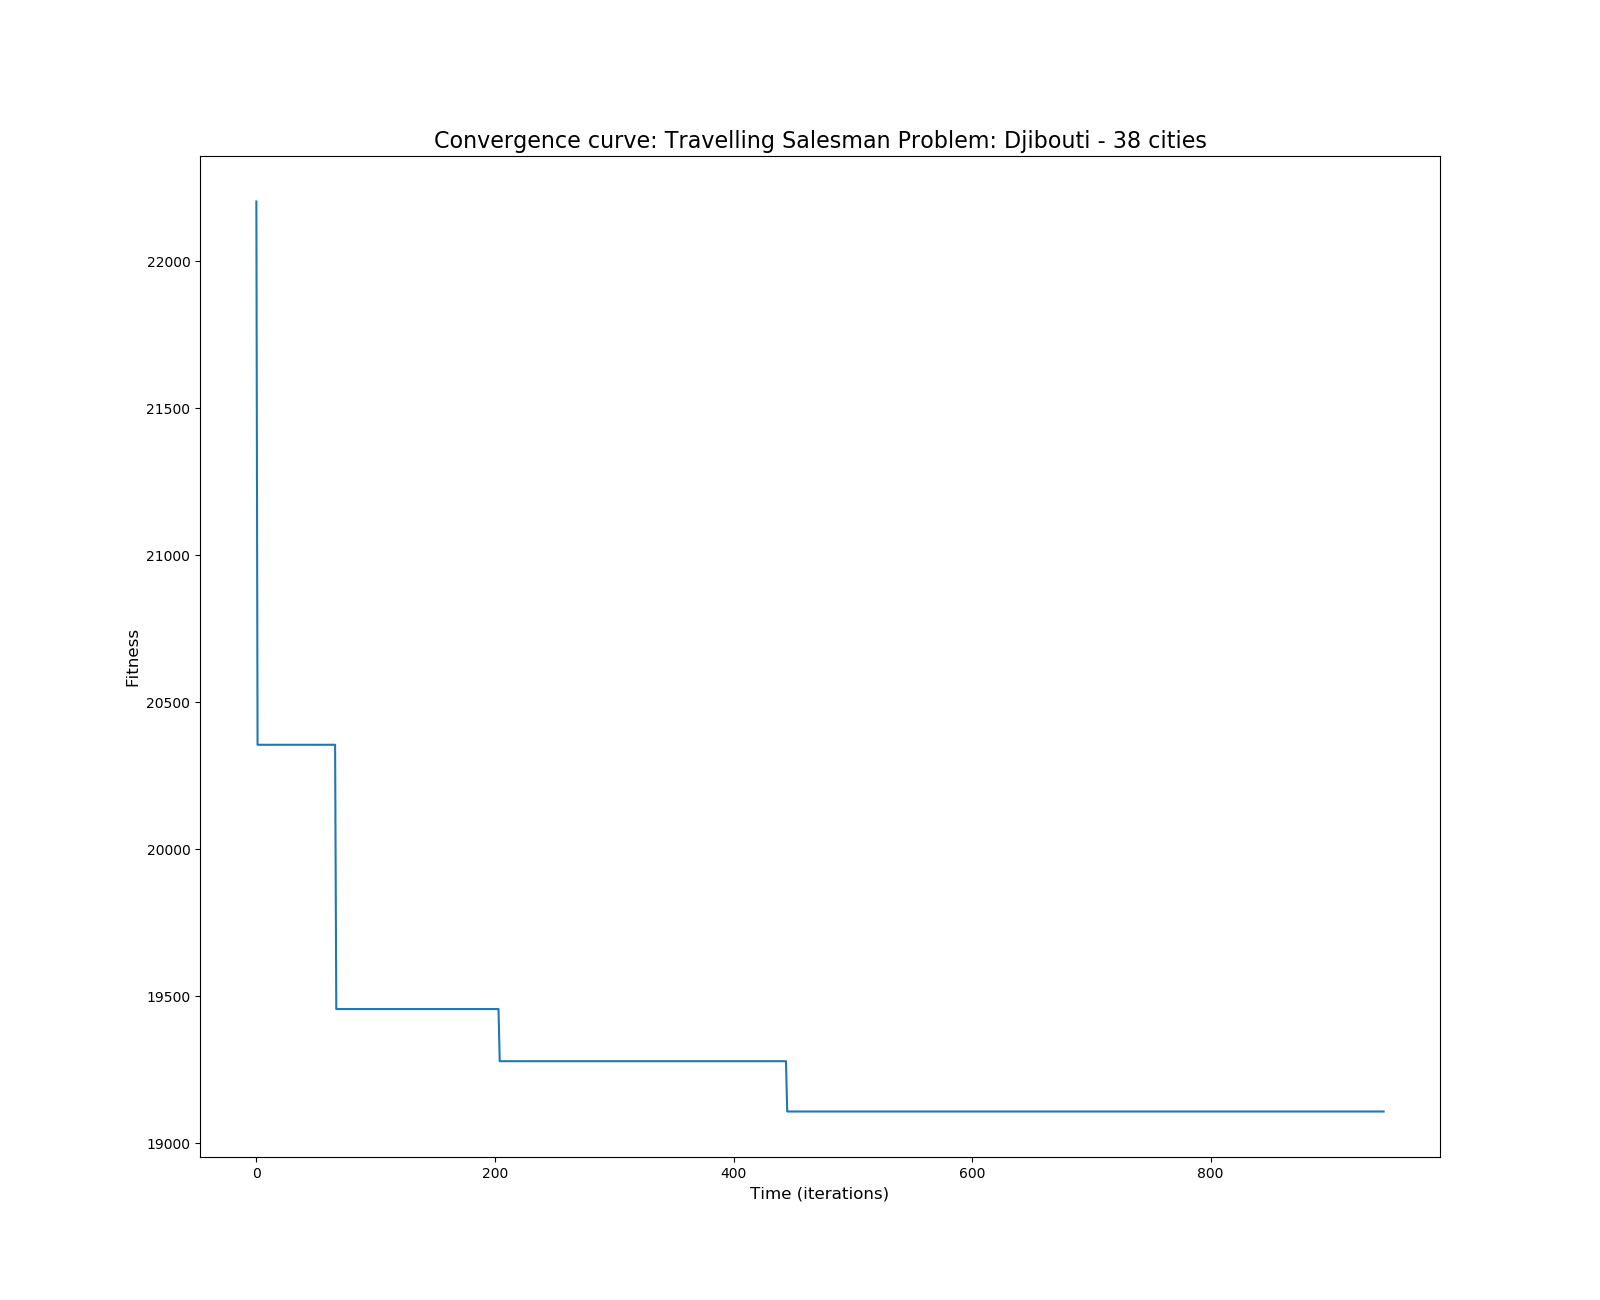
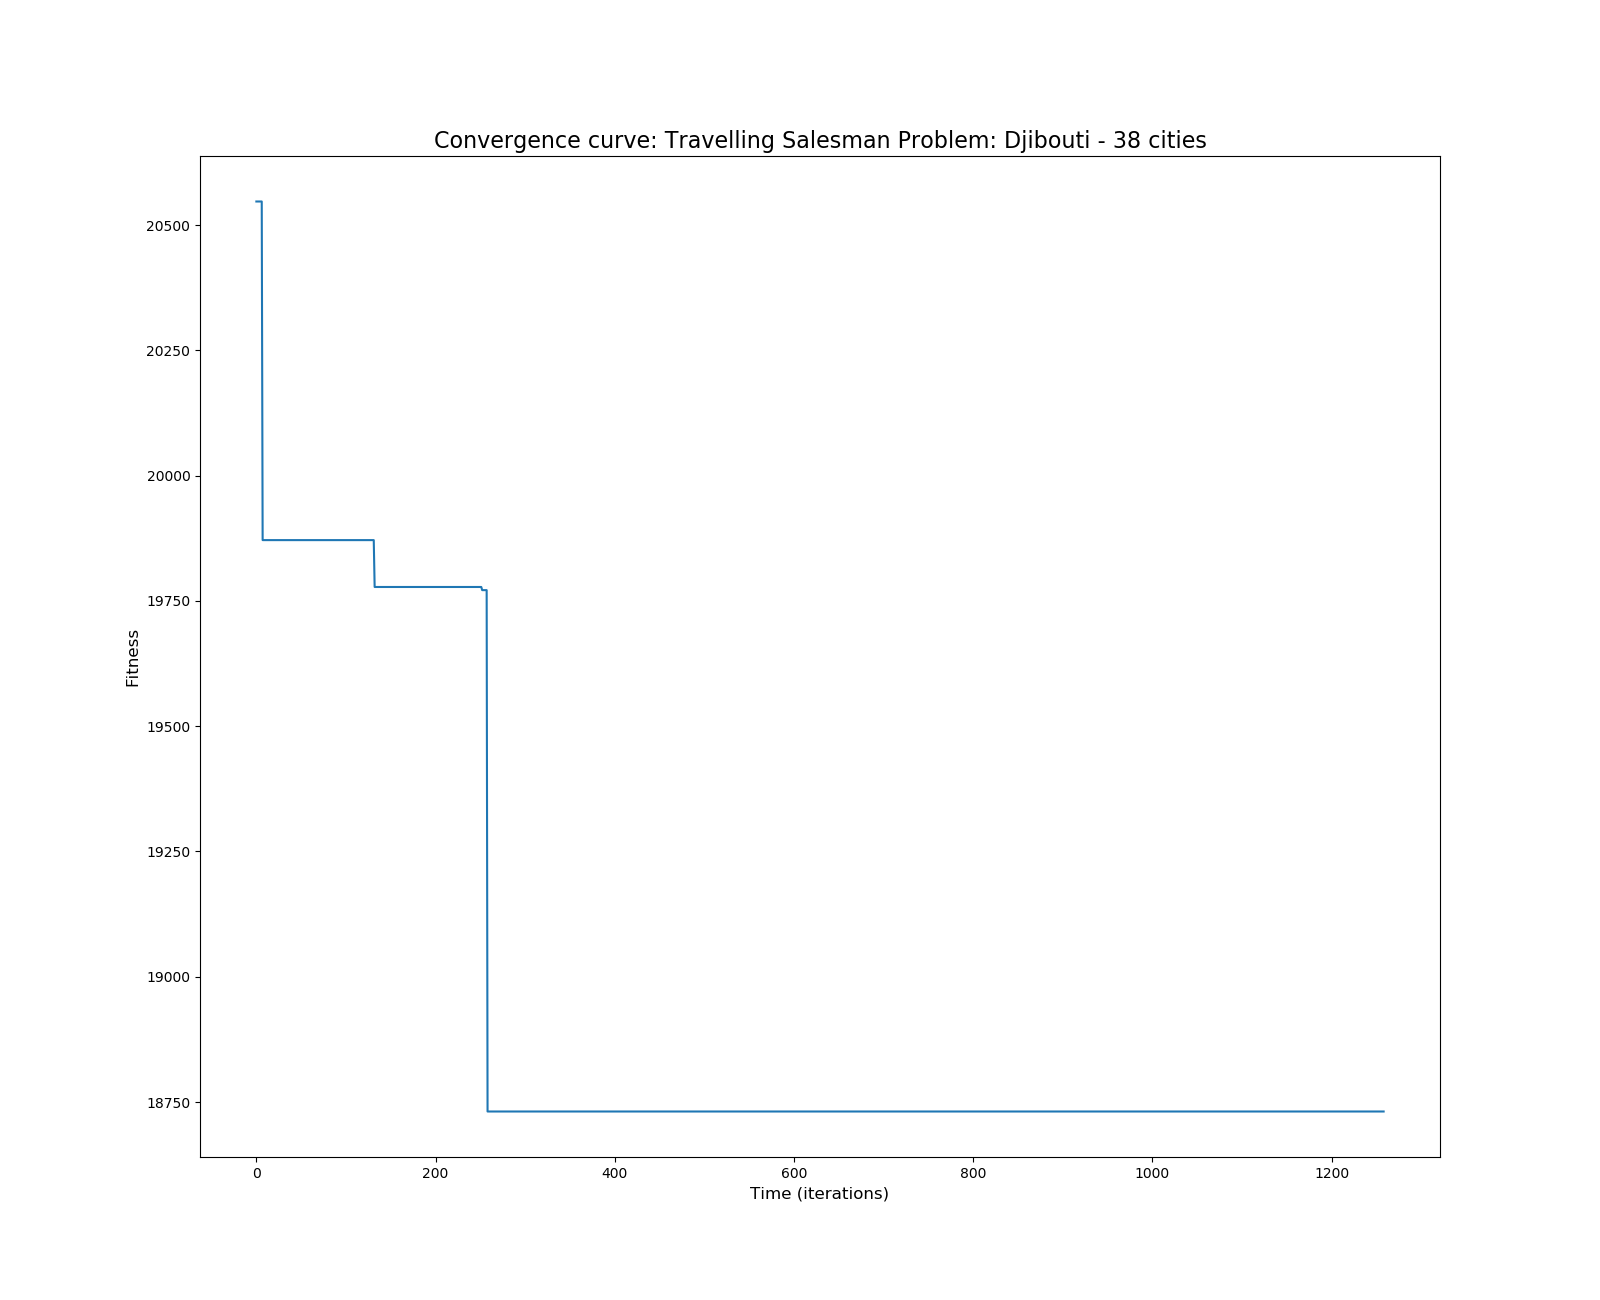
update_05162020

diff --git a/01-TSP_Djibouti/TSP_Djibouti.py b/01-TSP_Djibouti/TSP_Djibouti.py
@@ -36,7 +36,7 @@ t1 = time.time()
 # Solve the problem using the genetic algorithm
 best_state, best_fitness, fitness_curve = mlrose.genetic_alg(problem=problem_fit,
                                                              pop_size=population,
-                                                             mutation_prob=0.95,
+                                                             mutation_prob=0.1,
                                                              max_attempts=1000,
                                                              max_iters=10000,
                                                              curve=True)
@@ -52,7 +52,7 @@ print("01. Chosen algorithm to solve the problem: Genetic Algorithm from mlrose\
 print("02. Parameters:")
 print("\nNumber of cities:", nb_cities)
 print("\nPopulation:", population)
-print("\nMutation prob: 0.01")
+print("\nMutation prob: 0.1")
 print("\nMax attempts: 1000")
 print("\nMax iterations: 10000")
 print("\nNumber of cities:", nb_cities)
@@ -61,7 +61,7 @@ sol_df = pd.DataFrame(best_state, columns=[''])
 sol_df.to_csv("Djibouti38_sol.csv", sep=",")
 print("\n    - Solutions:", sol_df)
 print("\n    - Fitness:", round(best_fitness, 2))
-print("\nStopping criterion: 1000 iterations")
+print("\nStopping criterion: 3000 iterations")
 print("\nComputational time:", round(comp_time, 2), "seconds\n")
 print("==========================================================================")
 

diff --git a/02-TSP_Qatar/TSP_Qatar.py b/02-TSP_Qatar/TSP_Qatar.py
@@ -20,7 +20,7 @@ print(type(cities_list))
 # Initialize function parameters
 nb_cities = int(len(cities_list))
 print(nb_cities)
-population = 5000
+population = 500
 
 # Initialize fitness function object
 fitness_coords = mlrose.TravellingSales(coords=cities_list)
@@ -36,7 +36,7 @@ t1 = time.time()
 # Solve the problem using the genetic algorithm
 best_state, best_fitness, fitness_curve = mlrose.genetic_alg(problem=problem_fit,
                                                              pop_size=population,
-                                                             mutation_prob=0.95,
+                                                             mutation_prob=0.1,
                                                              max_attempts=1000,
                                                              max_iters=10000,
                                                              curve=True)
@@ -52,7 +52,7 @@ print("01. Chosen algorithm to solve the problem: Genetic Algorithm from mlrose\
 print("02. Parameters:")
 print("\nNumber of cities:", nb_cities)
 print("\nPopulation:", population)
-print("\nMutation prob: 0.01")
+print("\nMutation prob: 0.1")
 print("\nMax attempts: 1000")
 print("\nMax iterations: 10000")
 print("\nNumber of cities:", nb_cities)
